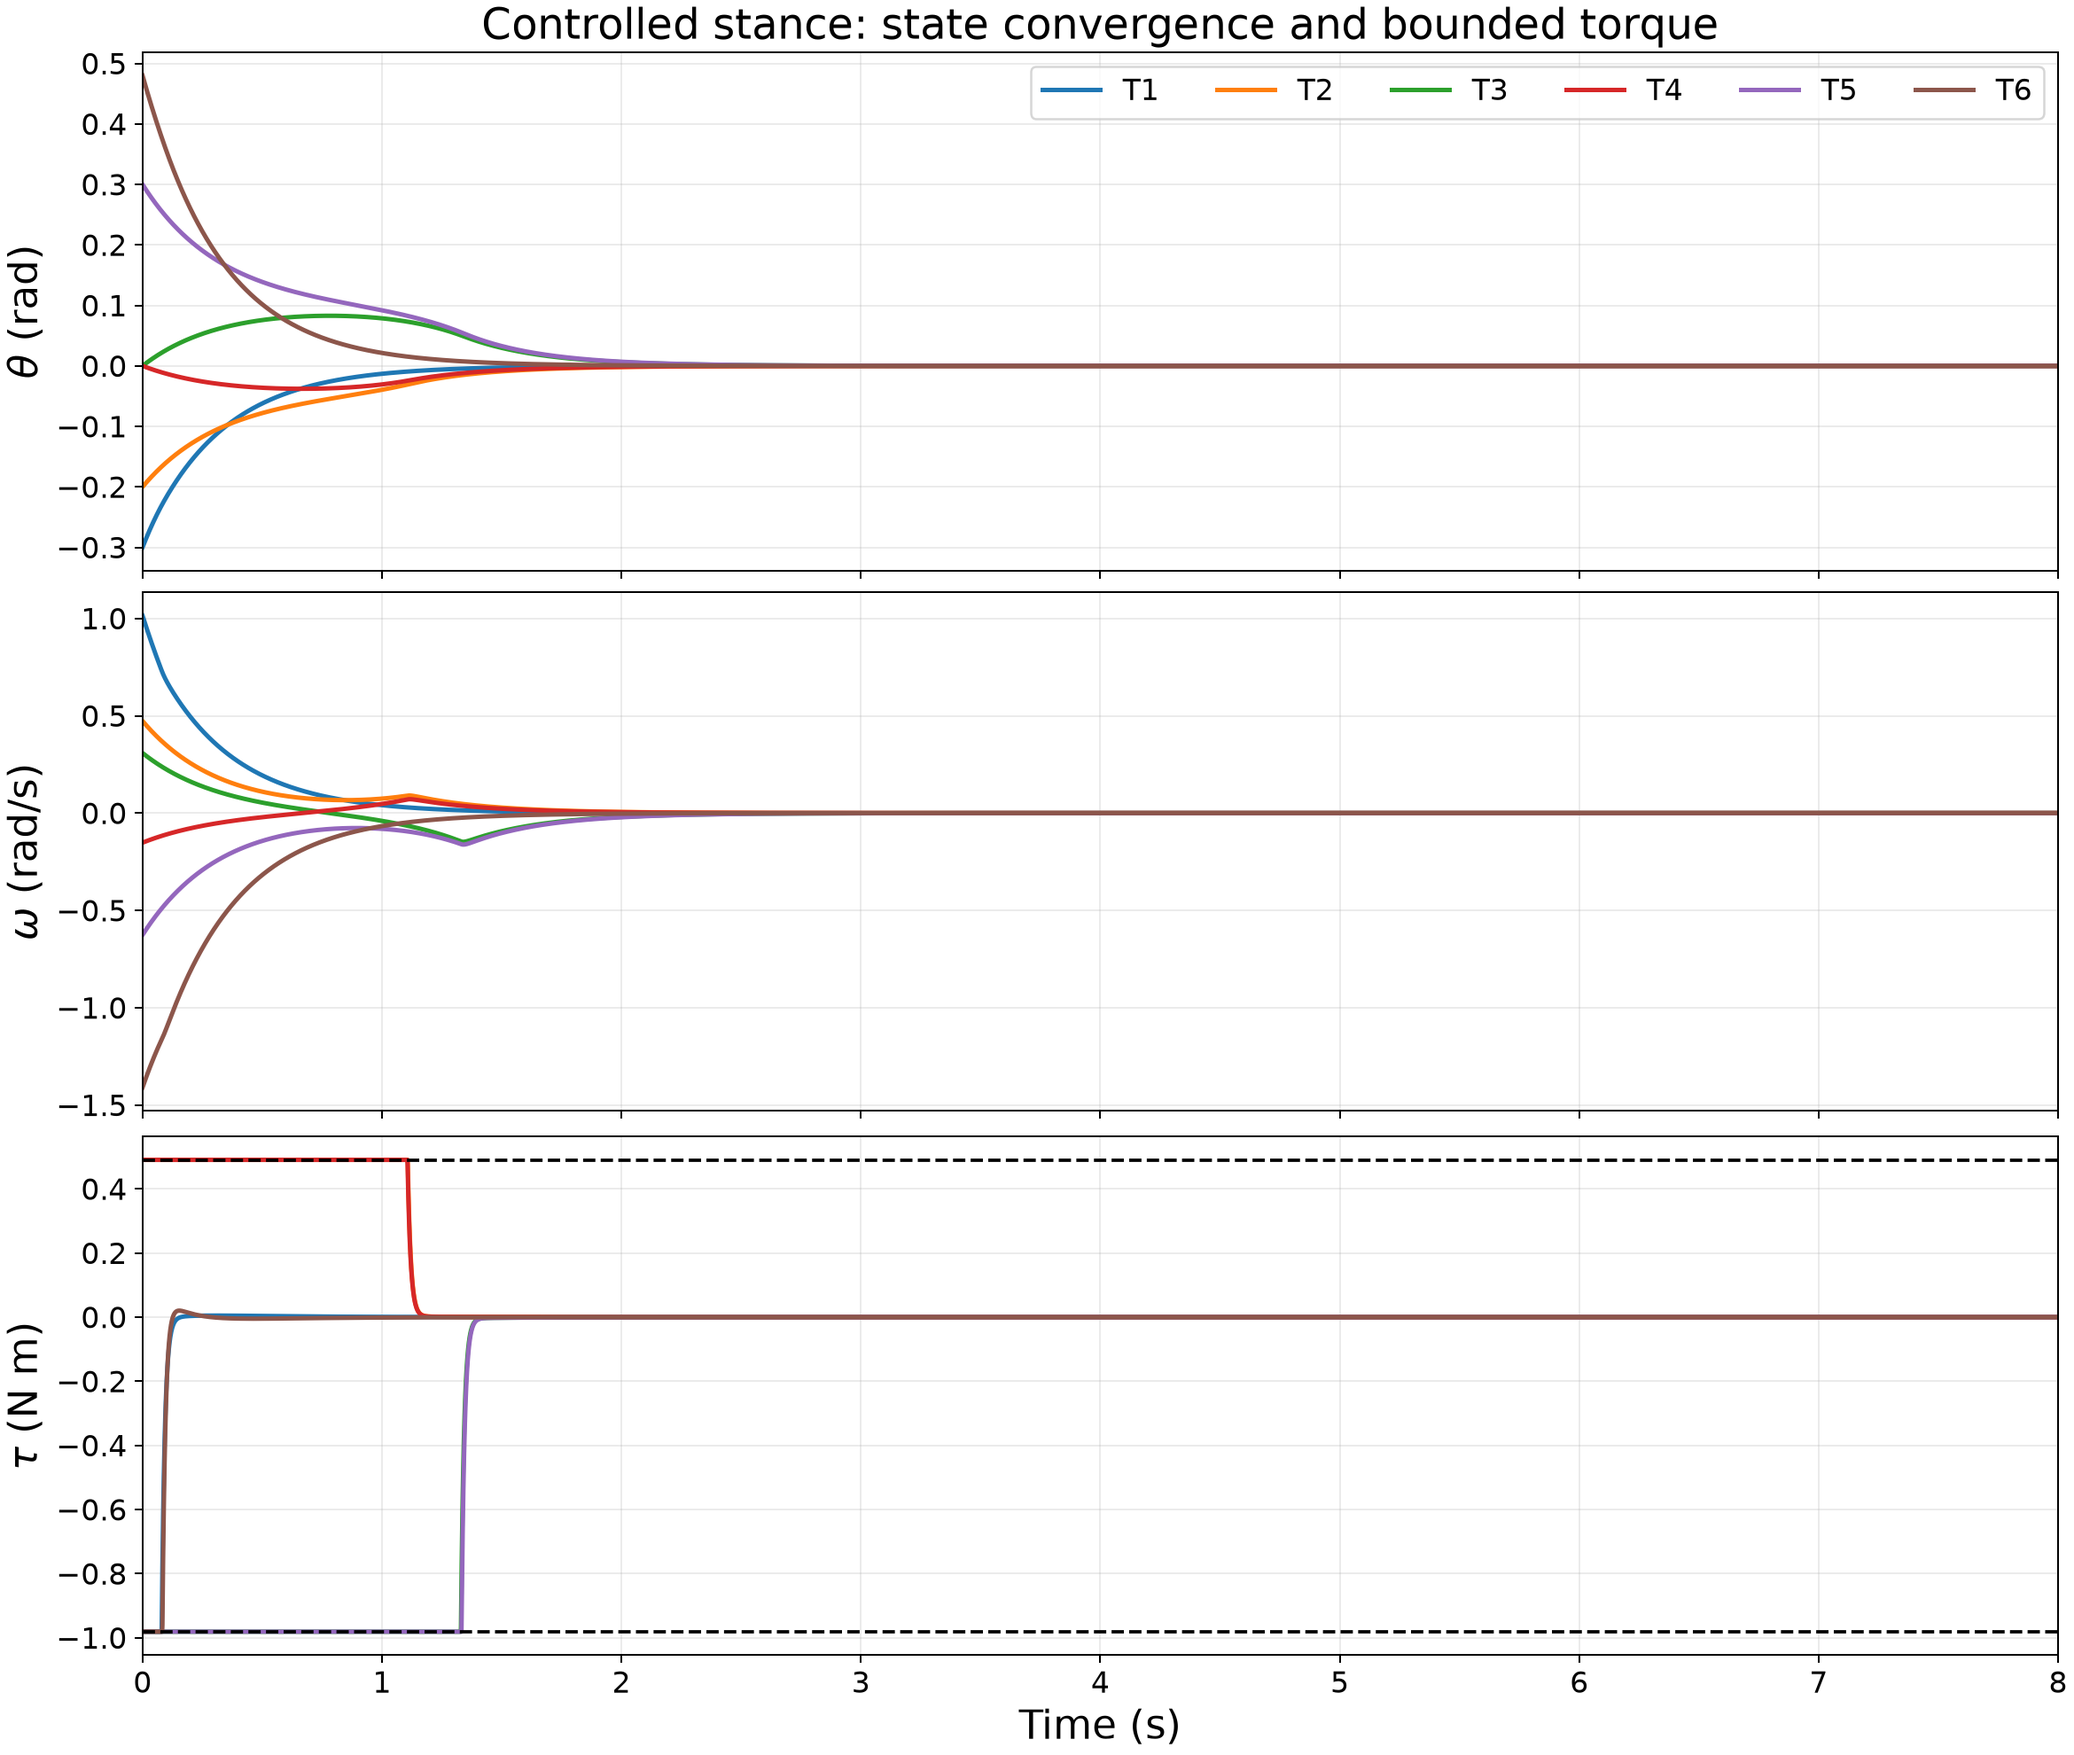
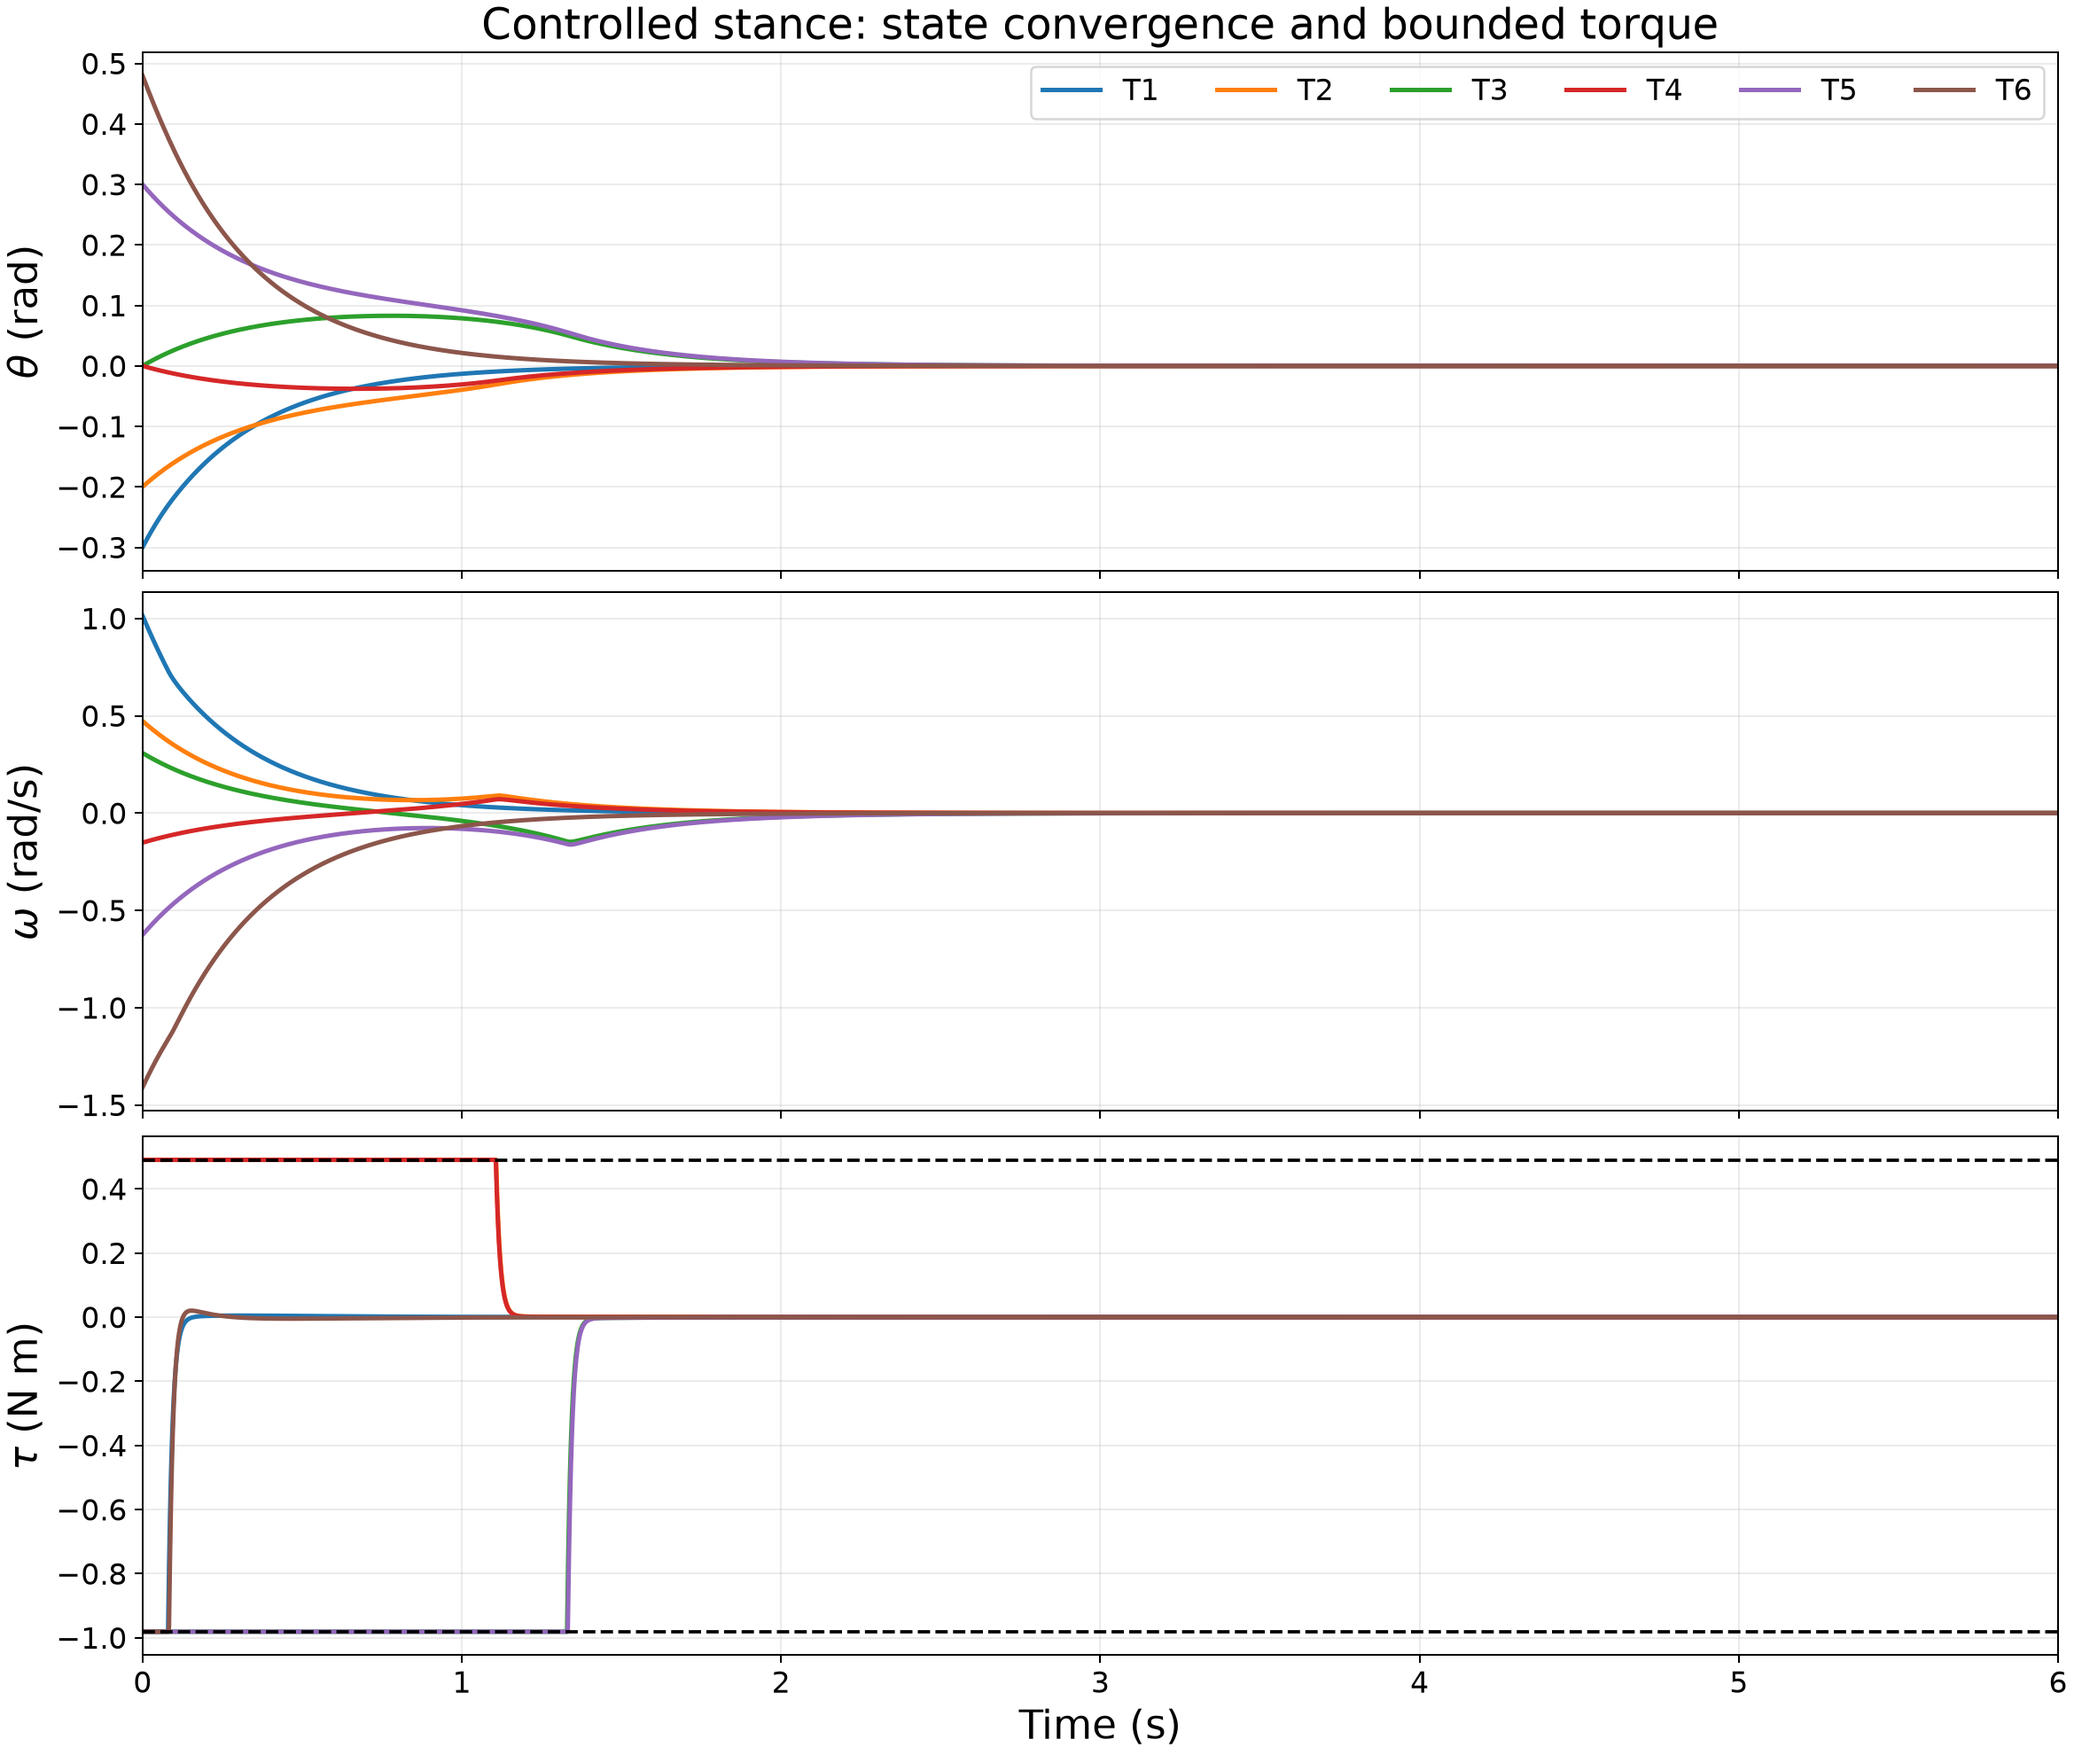
Shorten controlled stance examples to six seconds

diff --git a/assignment_2/codes/validate_roa.py b/assignment_2/codes/validate_roa.py
@@ -17,6 +17,7 @@ OUT = Path(__file__).resolve().parents[1] / 'figures'
 PARAMS = model.generate_params()
 LEFT, RIGHT = PARAMS['incline'] - np.pi/8, PARAMS['incline'] + np.pi/7
 TOL, HORIZON = 1e-6, 15.0
+EXAMPLE_HORIZON = 6.0
 
 
 def inside(states):
@@ -24,7 +25,7 @@ def inside(states):
     return (states[:, 1] > low) & (states[:, 1] < high)
 
 
-def integrate(initial, dt, keep_history=False):
+def integrate(initial, dt, keep_history=False, horizon=HORIZON):
     """RK4 with stage-wise feedback; stop only trajectories leaving angle I.
 
     Success requires both tolerances throughout the FINAL half second.
@@ -37,7 +38,7 @@ def integrate(initial, dt, keep_history=False):
     min_margin = np.full(len(states), np.inf)
     torque_min, torque_max = np.inf, -np.inf
     history = [states.copy()] if keep_history else None
-    steps = round(HORIZON/dt)
+    steps = round(horizon/dt)
     for k in range(steps + 1):
         ids = np.flatnonzero(active)
         z = states[ids]
@@ -118,7 +119,7 @@ def plots(grid, result, examples, history, dt):
     for ax, label in zip(axes, [r'$\theta$ (rad)', r'$\omega$ (rad/s)', r'$\tau$ (N m)']):
         ax.set_ylabel(label)
         ax.grid(alpha=.25)
-        ax.set_xlim(0, 8)
+        ax.set_xlim(0, time[-1])
     axes[0].legend(ncol=6, loc='upper right', fontsize=13)
     axes[0].set_title('Controlled stance: state convergence and bounded torque')
     axes[2].set_xlabel('Time (s)')
@@ -151,9 +152,9 @@ def main():
     low, high = capture_bounds(theta, PARAMS)
     fractions = np.array([.5, .01, .99, .01, .99, .5])
     examples = np.column_stack([theta, low + fractions*(high-low)])
-    traces = integrate(examples, .001, keep_history=True)
+    traces = integrate(examples, .001, keep_history=True, horizon=EXAMPLE_HORIZON)
     summary['examples'] = [dict(label=f'T{j+1}', initial=z.tolist(), settled=bool(traces['success'][j]), onset=float(traces['onset'][j])) for j, z in enumerate(examples)]
-    summary['settings'] = dict(horizon=HORIZON, tolerance=TOL, hold=.5, angle_domain=[LEFT, RIGHT], grid_shape=[121,181], boundary_offsets=[1e-3,1e-5])
+    summary['settings'] = dict(horizon=HORIZON, example_horizon=EXAMPLE_HORIZON, tolerance=TOL, hold=.5, angle_domain=[LEFT, RIGHT], grid_shape=[121,181], boundary_offsets=[1e-3,1e-5])
     np.savez_compressed(OUT/'numerical_roa_data.npz', initial=initial, expected=expected,
                         coarse_success=runs[0]['success'], fine_success=runs[1]['success'],
                         fine_final=runs[1]['final'], examples=examples, example_history=traces['history'])

diff --git a/assignment_2/assignment_2.md b/assignment_2/assignment_2.md
@@ -316,7 +316,7 @@ Here the onset is the first sample of the final uninterrupted interval satisfyin
 
 ![Angle, velocity, and torque for six controlled stance trajectories.](figures/roa_controlled_trajectories.png)
 
-Dashed horizontal lines show the torque limits. The plots display the first 8 s; the simulations continue to 15 s to verify sustained convergence. Angle and velocity need not decrease monotonically: the controller first brakes or reverses motion, then approaches the unsaturated stable dynamics near upright.
+Dashed horizontal lines show the torque limits. The six example simulations and plots end at 6 s, after every example has satisfied the standing tolerances for at least 0.5 s. The separate RoA grid validation in Section 2.3 retains its 15 s horizon. Angle and velocity need not decrease monotonically: the controller first brakes or reverses motion, then approaches the unsaturated stable dynamics near upright.
 
 Reproduce the sweep and both figures with:
 
